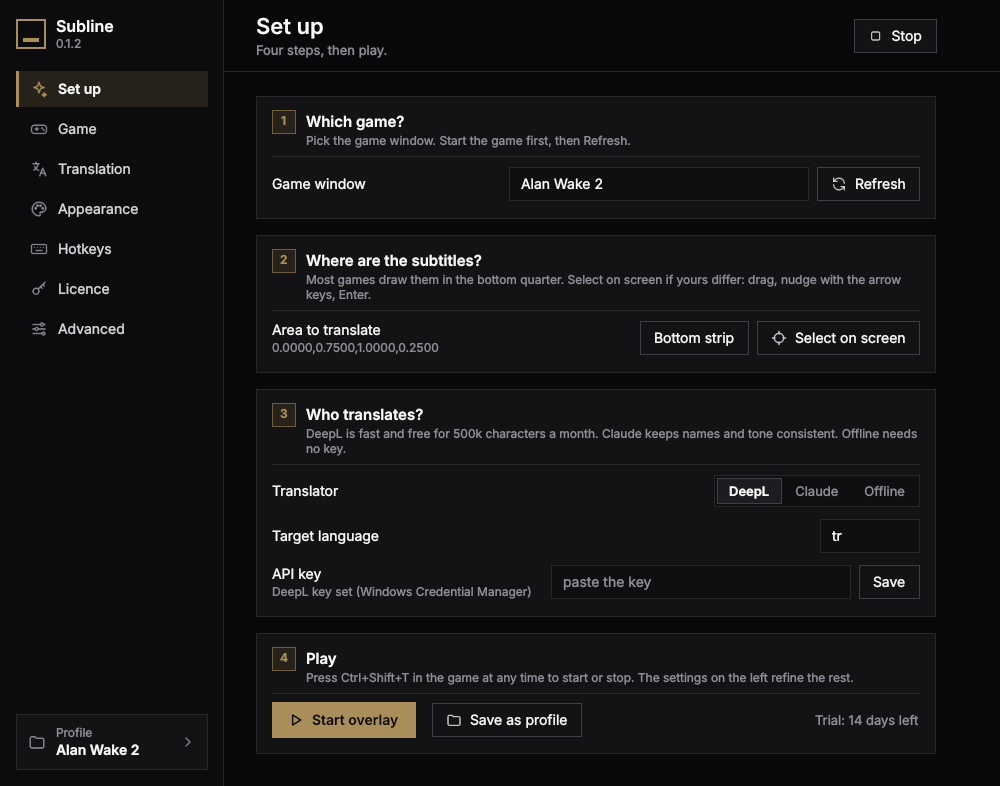
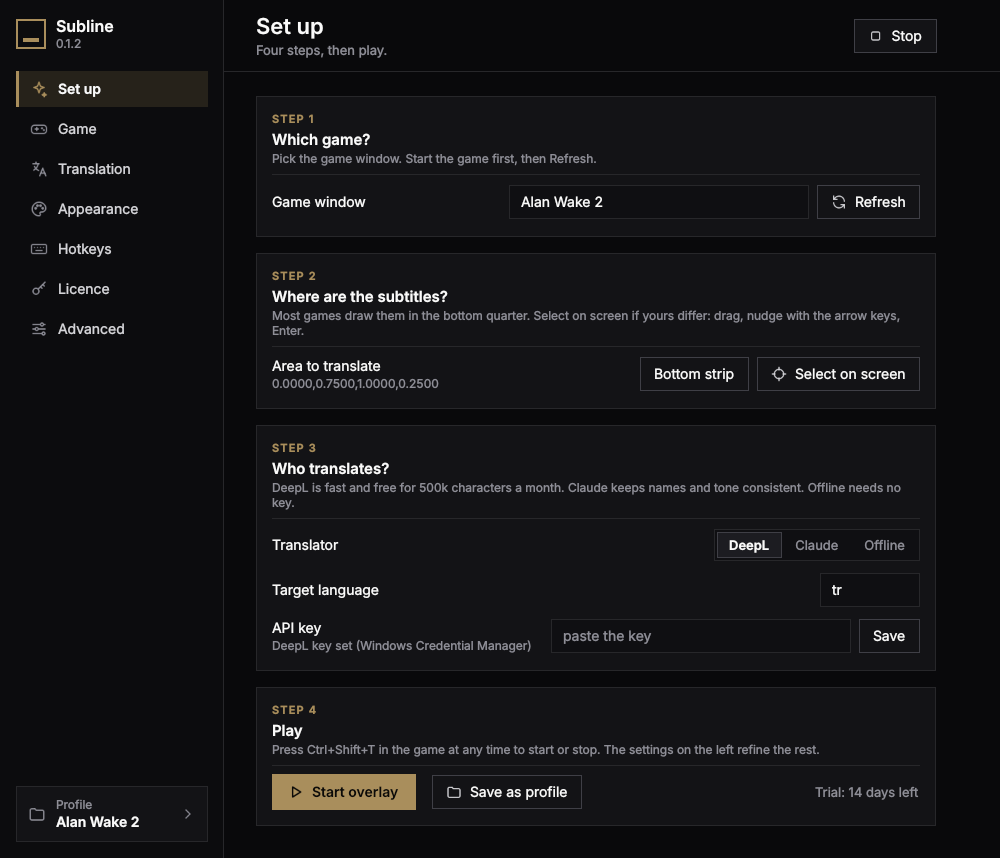
ui: set-up cards number themselves with a "STEP n" line
The boxed badge goes; a small accent "STEP 1" above the title numbers
each card. The other styles tried are removed with their property.

diff --git a/src/gametl/app/qml/Card.qml b/src/gametl/app/qml/Card.qml
@@ -7,7 +7,6 @@ Rectangle {
     property string title: ""
     property string helper: ""
     property int step: 0  // 1..n numbers the card (first-run flow)
-    property string stepStyle: "badge"
     default property alias content: body.data
 
     Layout.fillWidth: true
@@ -26,76 +25,37 @@ Rectangle {
         width: root.width - 2 * root.padding
         spacing: Theme.space
 
-        // Title block. `stepStyle` picks how a step number shows:
-        // "eyebrow"  small "STEP 1" line above the title
-        // "inline"   the number leads the title, in the accent
-        // "corner"   a large faint number at the card's right
-        // "badge"    a small boxed number on the title line
-        Item {
+        // Title block. A step number shows as a small accent line above the
+        // title ("STEP 1"), so the heading itself stays clean.
+        ColumnLayout {
             Layout.fillWidth: true
             visible: root.title !== ""
-            implicitHeight: titles.implicitHeight
-
-            Rectangle {
-                id: badge
-                visible: root.step > 0 && root.stepStyle === "badge"
-                width: 24; height: 24
-                y: titleText.y + (titleText.height - height) / 2
-                color: Theme.accentSoft
-                border.color: Theme.accentDeep
-                Text {
-                    anchors.centerIn: parent
-                    text: root.step
-                    color: Theme.accent
-                    font.family: Theme.font
-                    font.pixelSize: Theme.sizeSmall
-                    font.weight: Font.DemiBold
-                }
+            spacing: 2
+            Text {
+                visible: root.step > 0
+                text: "STEP " + root.step
+                color: Theme.accent
+                font.family: Theme.font
+                font.pixelSize: 11
+                font.weight: Font.DemiBold
+                font.letterSpacing: 1.2
+                Layout.bottomMargin: 2
             }
             Text {
-                visible: root.step > 0 && root.stepStyle === "corner"
-                anchors.right: parent.right
-                anchors.rightMargin: 2
-                y: -6
-                text: root.step < 10 ? "0" + root.step : root.step
-                color: Theme.accent
-                opacity: 0.45
+                text: root.title
+                color: Theme.text
                 font.family: Theme.font
-                font.pixelSize: 30
-                font.weight: Font.Light
+                font.pixelSize: Theme.sizeTitle
+                font.weight: Font.DemiBold
             }
-            ColumnLayout {
-                id: titles
-                x: badge.visible ? badge.width + Theme.space + 2 : 0
-                width: parent.width - x
-                spacing: 2
-                Text {
-                    visible: root.step > 0 && root.stepStyle === "eyebrow"
-                    text: "STEP " + root.step
-                    color: Theme.accent
-                    font.family: Theme.font
-                    font.pixelSize: 11
-                    font.weight: Font.DemiBold
-                    font.letterSpacing: 1.2
-                    Layout.bottomMargin: 2
-                }
-                Text {
-                    id: titleText
-                    text: root.step > 0 && root.stepStyle === "inline" ? root.step + ".  " + root.title : root.title
-                    color: Theme.text
-                    font.family: Theme.font
-                    font.pixelSize: Theme.sizeTitle
-                    font.weight: Font.DemiBold
-                }
-                Text {
-                    visible: root.helper !== ""
-                    text: root.helper
-                    color: Theme.muted
-                    font.family: Theme.font
-                    font.pixelSize: Theme.sizeSmall
-                    wrapMode: Text.WordWrap
-                    Layout.fillWidth: true
-                }
+            Text {
+                visible: root.helper !== ""
+                text: root.helper
+                color: Theme.muted
+                font.family: Theme.font
+                font.pixelSize: Theme.sizeSmall
+                wrapMode: Text.WordWrap
+                Layout.fillWidth: true
             }
         }
 
